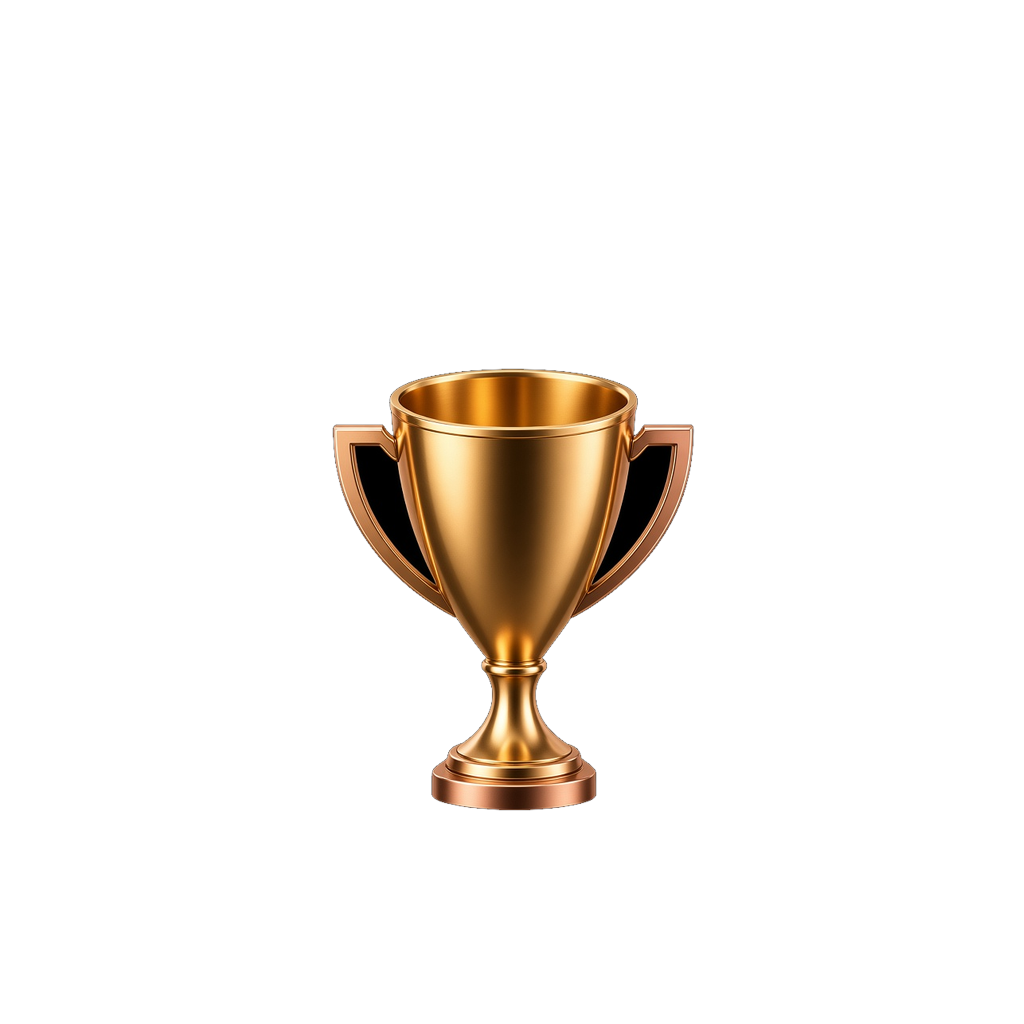
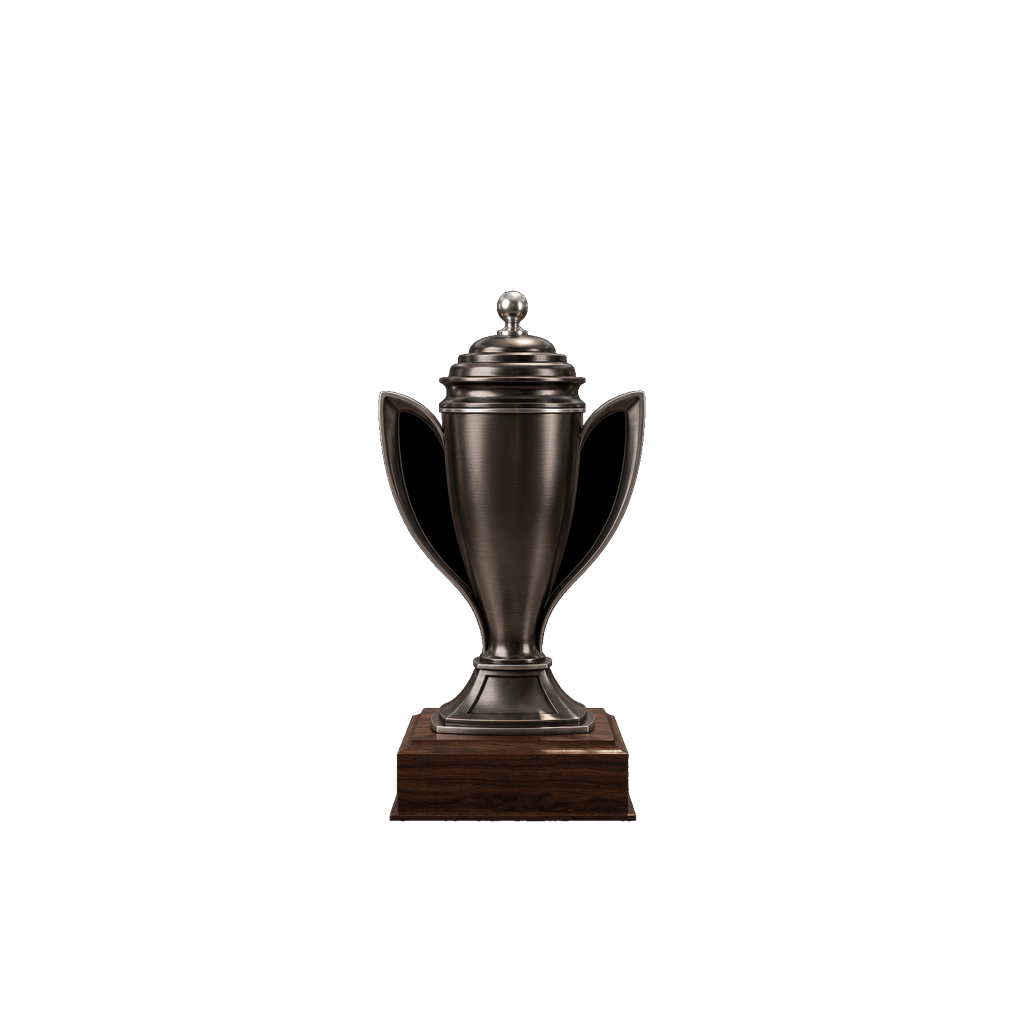
feat(intro): try the lidded silver prestige cup on the splash
First of the two reference trophies — pewter cup with lid and wood base, star on the body.

Changed region(s): [[0.3125, 0.2812, 0.6875, 0.8125]]

diff --git a/css/app.css b/css/app.css
@@ -347,7 +347,7 @@
   .intro-layer{position:absolute;inset:0;width:100%;height:100%;object-fit:contain;display:block;}
   .intro-cup{
     z-index:2;opacity:0;transform:scale(.9) translateY(12px);
-    filter:drop-shadow(0 22px 18px rgba(0,0,0,.62)) drop-shadow(0 6px 4px rgba(0,0,0,.4)) drop-shadow(0 0 16px rgba(245,185,66,.28));
+    filter:drop-shadow(0 22px 18px rgba(0,0,0,.62)) drop-shadow(0 6px 4px rgba(0,0,0,.4)) drop-shadow(0 0 14px rgba(190,200,220,.22));
   }
   .intro.play .intro-cup{animation:introCup .85s cubic-bezier(.22,.7,.2,1) forwards;}
   .intro-gauge{
@@ -379,12 +379,12 @@
     transform-origin:center bottom;
   }
   .intro-star{
-    position:absolute;left:50%;top:51.5%;z-index:3;
+    position:absolute;left:50%;top:47%;z-index:3;
     width:0;height:0;
     display:flex;align-items:center;justify-content:center;
     pointer-events:none;
     opacity:0;
-    font-size:calc(var(--intro-size) * .11);
+    font-size:calc(var(--intro-size) * .09);
     transform:translate(-50%,-50%) scale(0);
   }
   .intro.play .intro-star{

diff --git a/js/version.js b/js/version.js
@@ -1,2 +1,2 @@
 // Keep in sync with android/app/build.gradle versionName.
-window.FFK_VERSION = '1.2.16';
+window.FFK_VERSION = '1.2.17';

diff --git a/sw.js b/sw.js
@@ -1,4 +1,4 @@
-const CACHE = 'ffk_v98';
+const CACHE = 'ffk_v99';
 const ASSETS = [
   './',
   './index.html',
